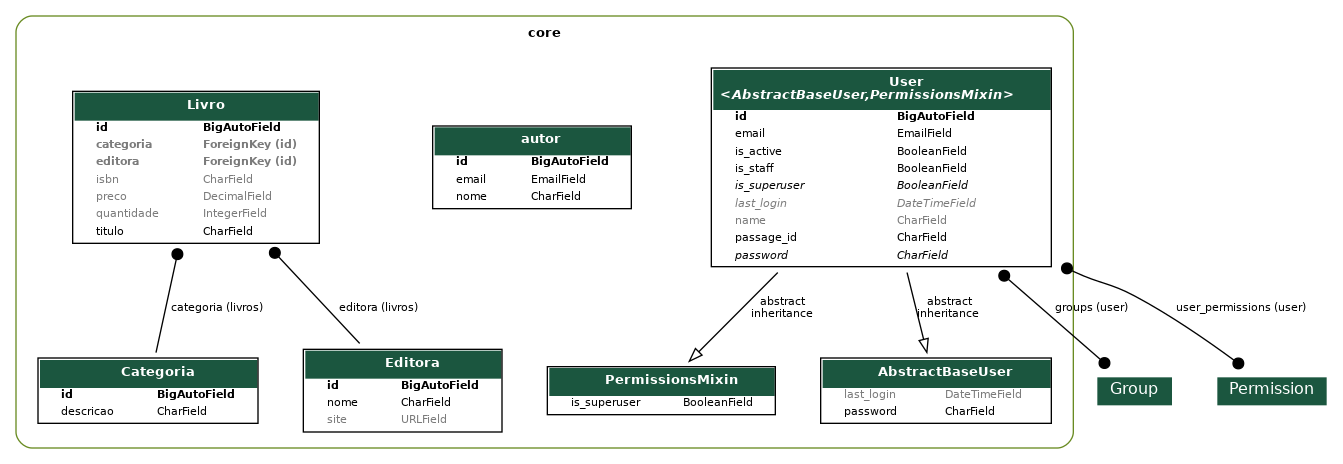
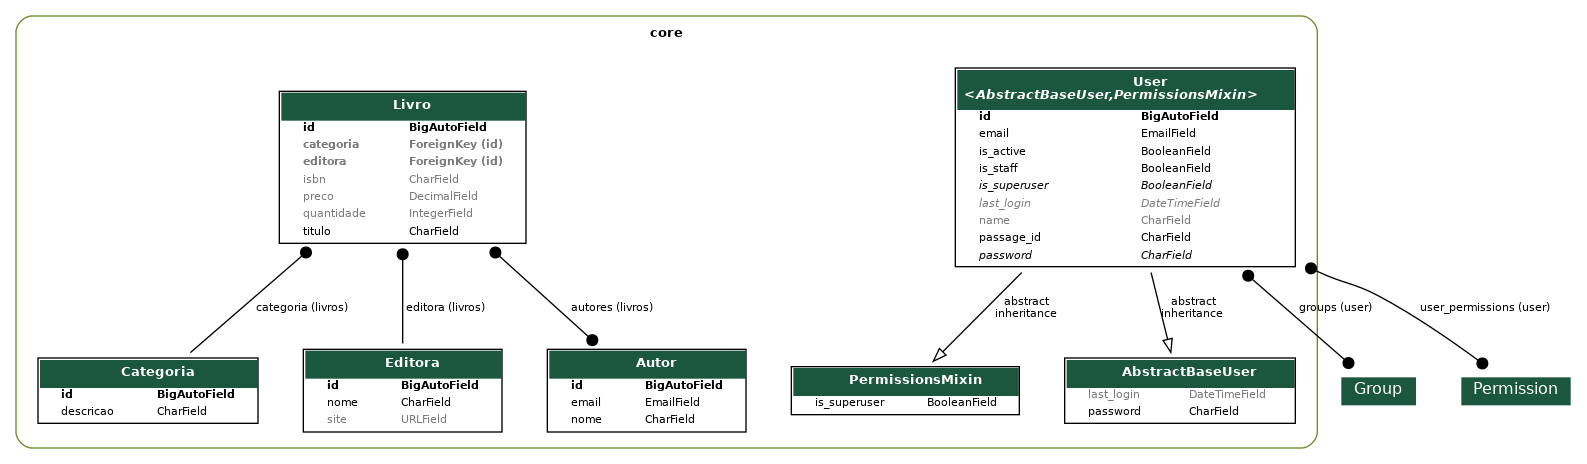
feat: refatoração da entidade Autor e suas referências, incluindo relacionamento com Livro

diff --git a/app/urls.py b/app/urls.py
@@ -12,7 +12,7 @@ from core.views import UserViewSet
 
 from core.views import CategoriaViewSet, UserViewSet
 
-from core.views import CategoriaViewSet, EditoraViewSet, autorViewSet, UserViewSet, LivroViewSet
+from core.views import CategoriaViewSet, EditoraViewSet, AutorViewSet, UserViewSet, LivroViewSet
 
 router = DefaultRouter()
 
@@ -20,7 +20,7 @@ router.register(r"categorias", CategoriaViewSet)
 router.register(r"editoras", EditoraViewSet)
 router.register(r'categorias', CategoriaViewSet, basename='categorias')
 router.register(r'usuarios', UserViewSet, basename='usuarios')
-router.register(r'autor', autorViewSet, basename='autor')
+router.register(r'autor', AutorViewSet, basename='autor')
 router.register(r'Livro', LivroViewSet, basename='Livro')
 
 urlpatterns = [

diff --git a/core/models/livro.py b/core/models/livro.py
@@ -2,6 +2,7 @@
 from django.db import models
 from .categoria import Categoria
 from .editora import Editora
+from .autor import Autor
 
 class Livro(models.Model):
     titulo = models.CharField(max_length=255)
@@ -10,6 +11,7 @@ class Livro(models.Model):
     preco = models.DecimalField(max_digits=7, decimal_places=2, default=0, null=True, blank=True)
     categoria = models.ForeignKey(Categoria, on_delete=models.PROTECT, related_name="livros", null=True, blank=True)
     editora = models.ForeignKey(Editora, on_delete=models.PROTECT, related_name="livros", null=True, blank=True)
-
+    autores = models.ManyToManyField(Autor, related_name="livros", blank=True)
+    
     def __str__(self):
         return f"({self.id}) {self.titulo} ({self.quantidade})"

diff --git a/core/migrations/0010_livro_autores.py b/core/migrations/0010_livro_autores.py
@@ -1,0 +1,18 @@
+# Generated by Django 5.1.7 on 2025-05-23 18:05
+
+from django.db import migrations, models
+
+
+class Migration(migrations.Migration):
+
+    dependencies = [
+        ('core', '0009_livro_categoria_livro_editora'),
+    ]
+
+    operations = [
+        migrations.AddField(
+            model_name='livro',
+            name='autores',
+            field=models.ManyToManyField(blank=True, related_name='livros', to='core.autor'),
+        ),
+    ]

diff --git a/core/views/autor.py b/core/views/autor.py
@@ -1,8 +1,8 @@
 from rest_framework.viewsets import ModelViewSet
 
-from core.models import autor 
-from core.serializers.autor import autorSerializer
+from core.models import Autor 
+from core.serializers.autor import AutorSerializer
 
-class autorViewSet(ModelViewSet):
-    queryset = autor.objects.all()
-    serializer_class = autorSerializer
+class AutorViewSet(ModelViewSet):
+    queryset = Autor.objects.all()
+    serializer_class = AutorSerializer

diff --git a/core/serializers/autor.py b/core/serializers/autor.py
@@ -1,8 +1,8 @@
 from rest_framework.serializers import ModelSerializer
 
-from core.models import autor
+from core.models import Autor
 
-class autorSerializer(ModelSerializer):
+class AutorSerializer(ModelSerializer):
     class Meta:
-        model = autor
+        model = Autor
         fields = "__all__"

diff --git a/core/serializers/__init__.py b/core/serializers/__init__.py
@@ -1,5 +1,5 @@
 from .user import UserSerializer
 from .categoria import CategoriaSerializer
 from .editora import EditoraSerializer
-from .autor import autorSerializer
-from .livro import LivroSerializer
+from .autor import AutorSerializer
+from .livro import LivroListRetrieveSerializer, LivroSerializer

diff --git a/core/serializers/livro.py b/core/serializers/livro.py
@@ -6,3 +6,10 @@ class LivroSerializer(ModelSerializer):
     class Meta:
         model = Livro
         fields = "__all__"
+        depth = 1
+ 
+class LivroListRetrieveSerializer(ModelSerializer):
+    class Meta:
+        model = Livro
+        fields = "__all__"
+        depth = 1

diff --git a/core/admin.py b/core/admin.py
@@ -54,5 +54,5 @@ class UserAdmin(BaseUserAdmin):
 admin.site.register(models.User, UserAdmin)
 admin.site.register(models.Categoria)
 admin.site.register(models.Editora)
-admin.site.register(models.autor)
+admin.site.register(models.Autor)
 admin.site.register(models.Livro)

diff --git a/core/views/__init__.py b/core/views/__init__.py
@@ -1,5 +1,5 @@
 from .user import UserViewSet
 from .categoria import CategoriaViewSet
 from .editora import EditoraViewSet
-from .autor import autorViewSet
+from .autor import AutorViewSet
 from .livro import LivroViewSet

diff --git a/core/models/autor.py b/core/models/autor.py
@@ -1,6 +1,6 @@
 from django.db import models
 
-class autor(models.Model):
+class Autor(models.Model):
     nome = models.CharField(max_length=100)
     email = models.EmailField(max_length=100, null=True) 
 

diff --git a/core/models/__init__.py b/core/models/__init__.py
@@ -1,5 +1,5 @@
 from .user import User
 from .categoria import Categoria
 from .editora import Editora
-from .autor import autor
+from .autor import Autor
 from .livro import Livro
